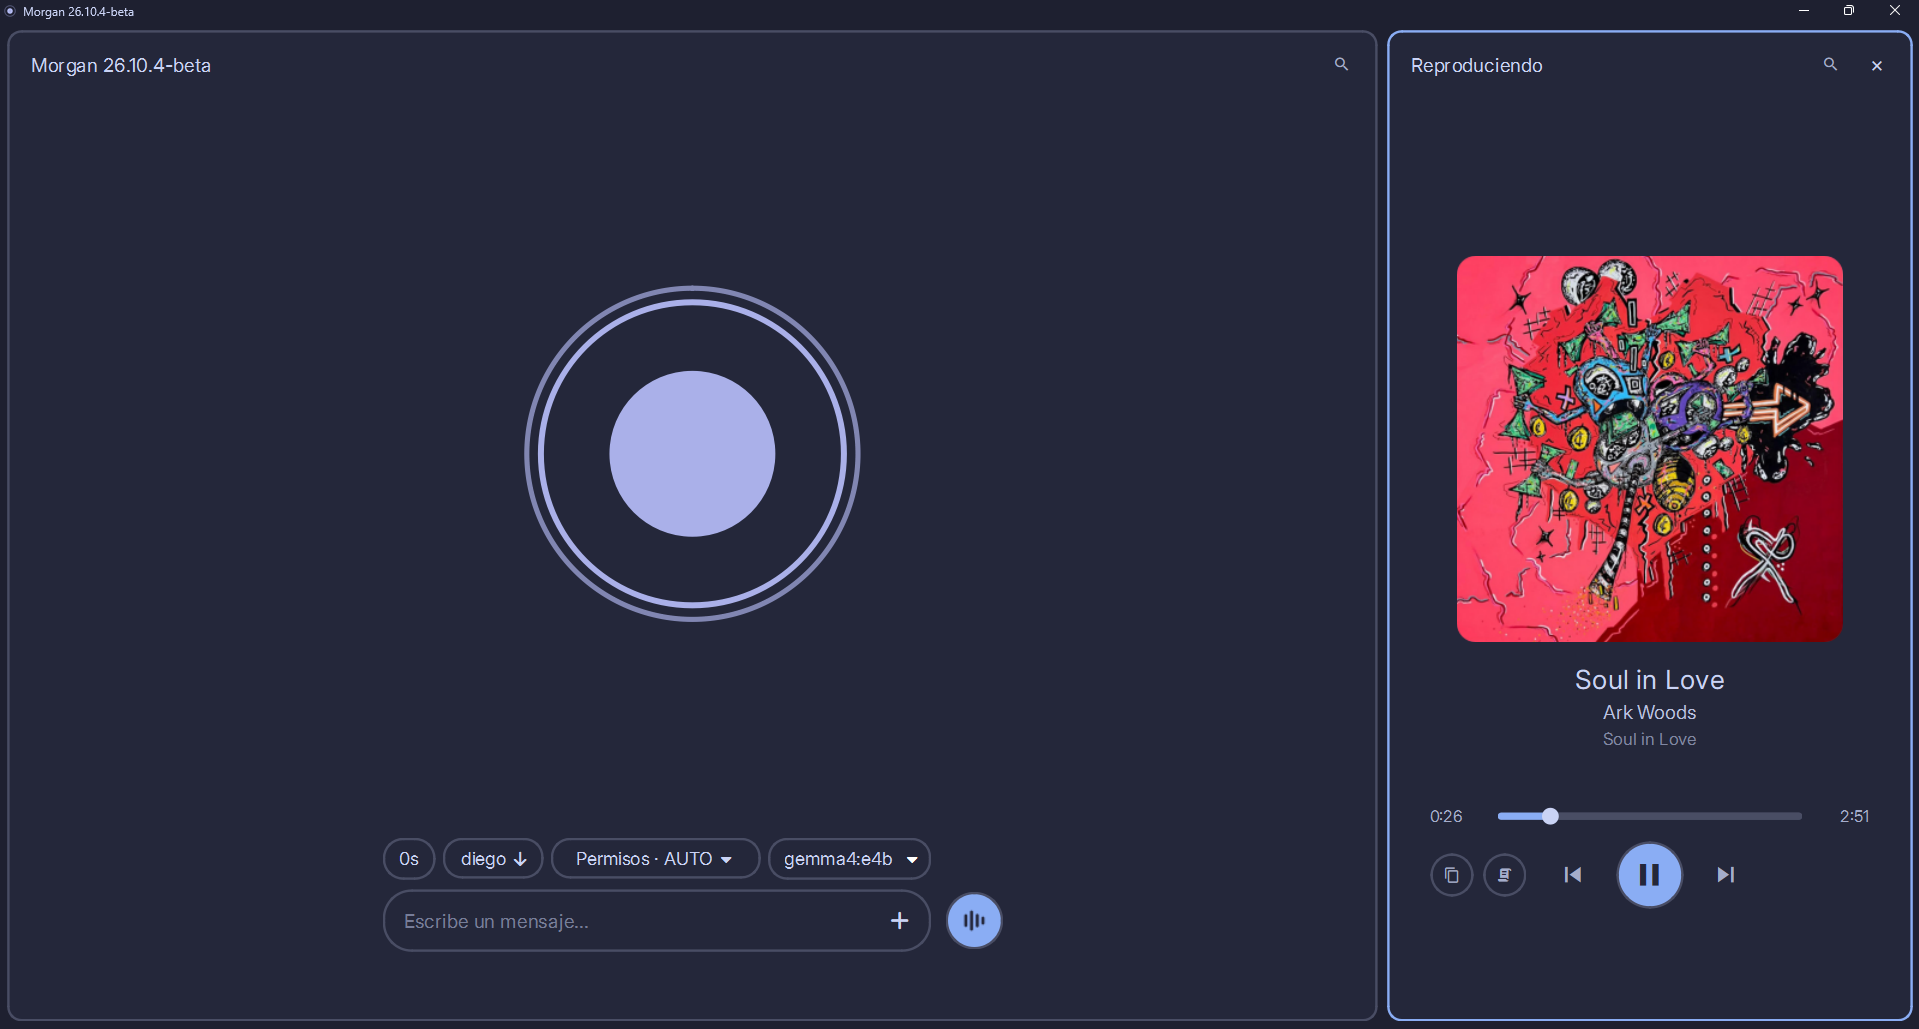
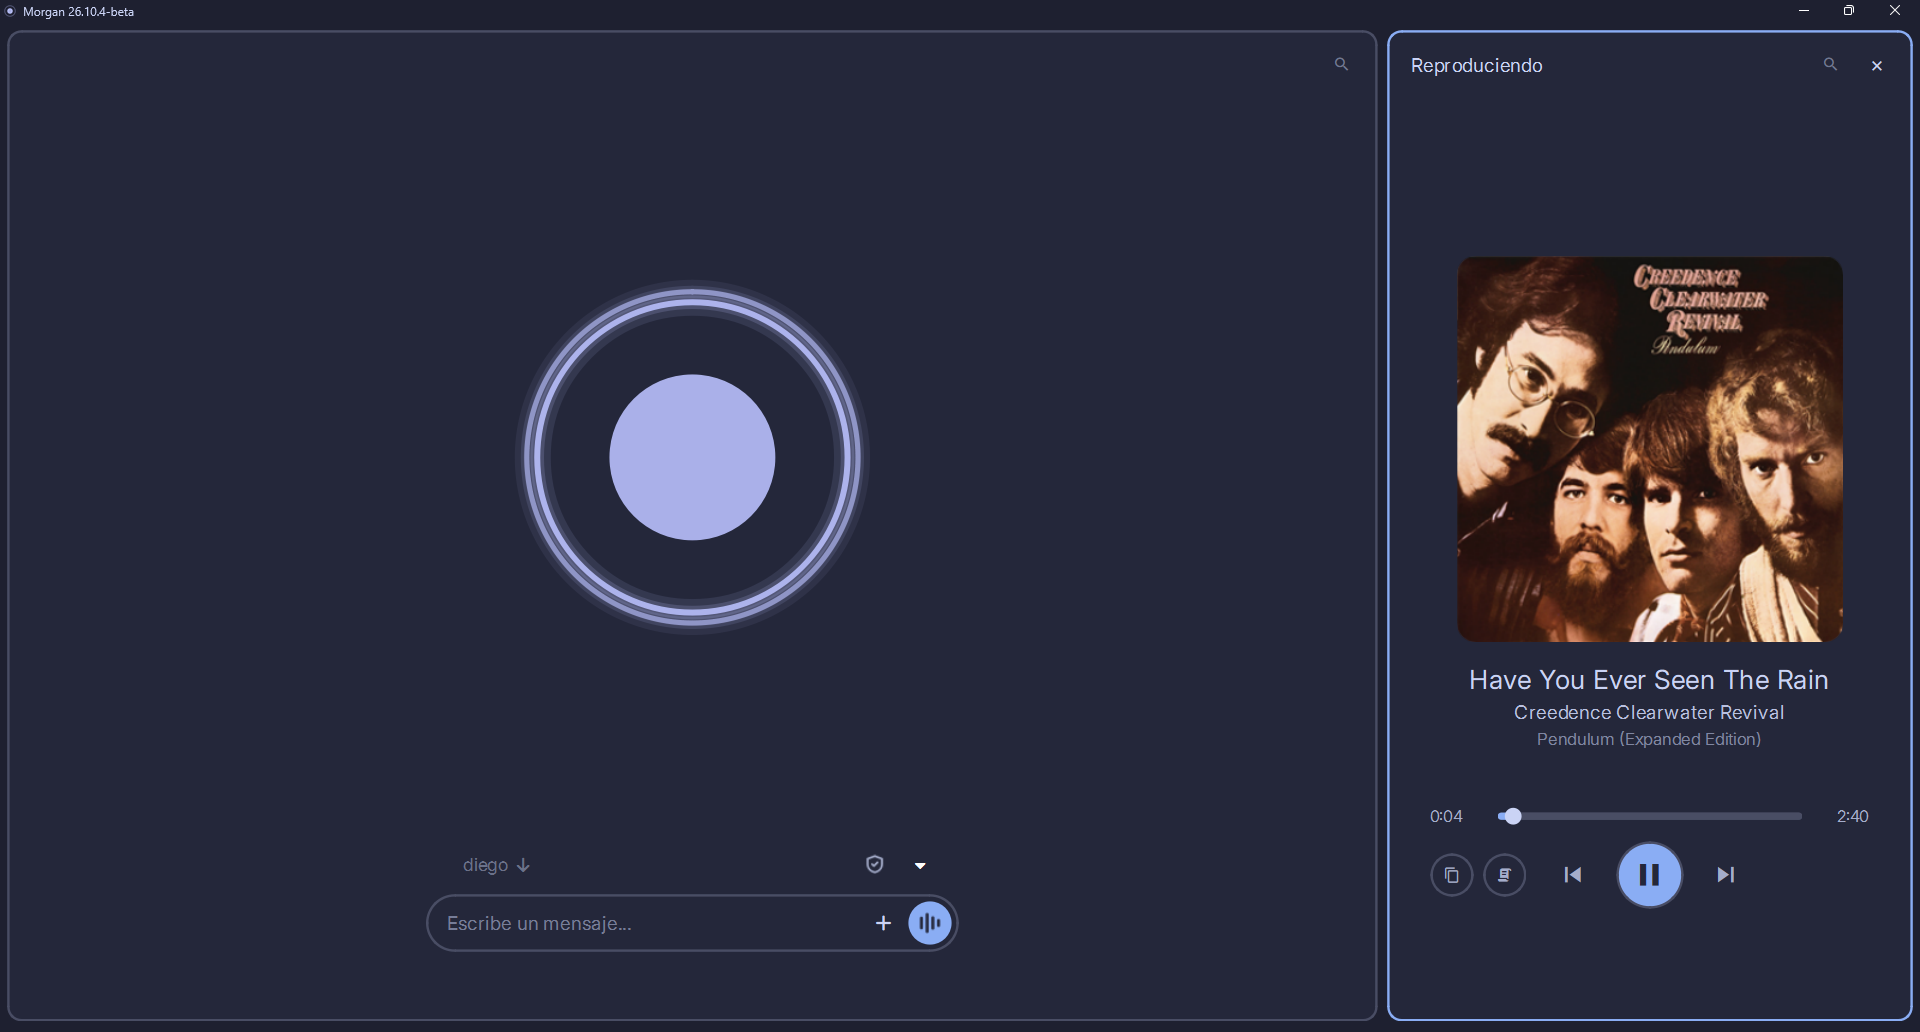
Update screenshots with new layout, README.md updated

diff --git a/README.md b/README.md
@@ -166,6 +166,8 @@ reminders, events, calendar, diary, week review, memories and search as the
 desktop, with due reminders announced as Windows notifications. Pass `--no-voice` (or
 `morgan-tui.bat -NoVoice`) to skip the TTS service entirely and show text only.
 
+![morgan-img4](assets/img4.png)
+
 ## Usage
 
 Closing the desktop window keeps Morgan and its local services running in the
@@ -189,6 +191,8 @@ preserved so reloading does not require restarting the application.
 
 For native voice input, tool execution, and action regression checks, see
 [desktop action execution](docs/ACTION-EXECUTION.md).
+
+![morgan-img3](assets/img3.png)
 
 ## License
 
